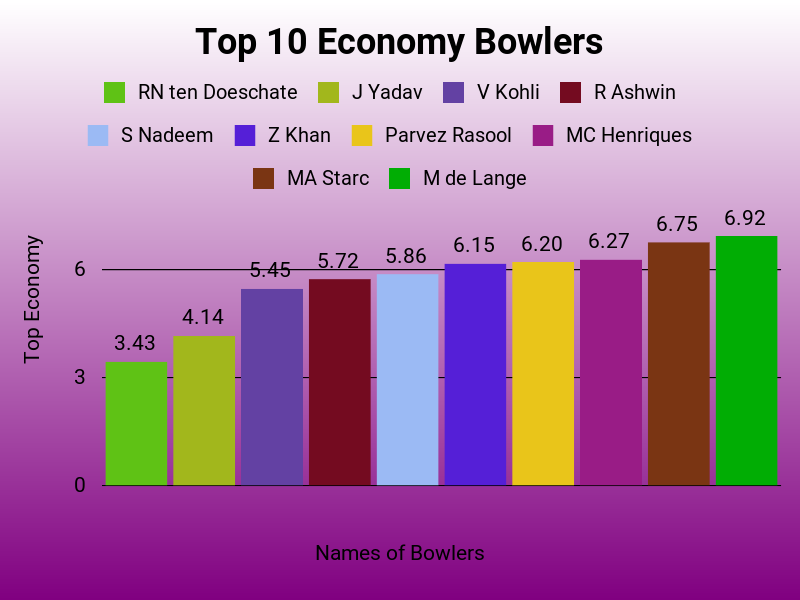
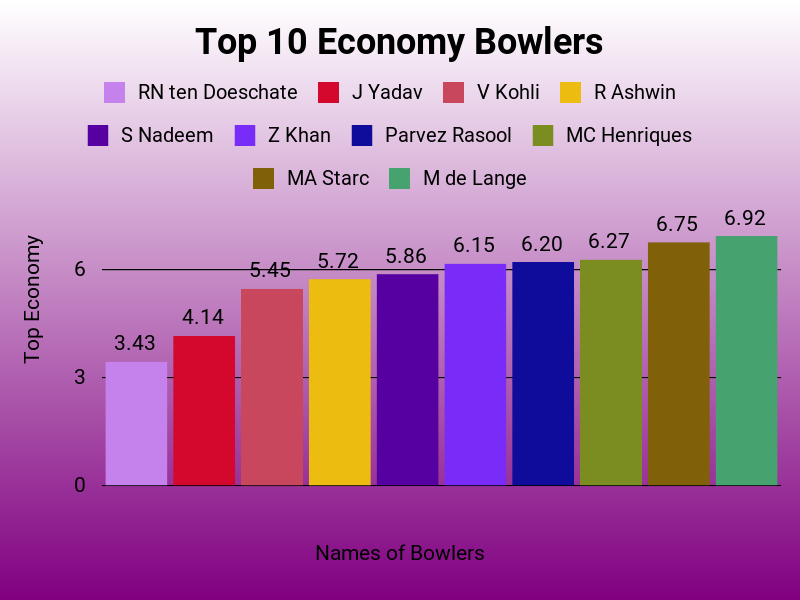
uploaded

diff --git a/src/server/problem4.rb b/src/server/problem4.rb
@@ -30,8 +30,8 @@ def economicalBowlers(matches, deliveries)
                 end
             end      
      end
-    #  puts bowlers
-   
+     puts bowlers
+
    topten = []
   for eachBowler in bowlers
         eco = eachBowler[1]['totalRuns'] / ( eachBowler[1]['totalBalls'] / 6.0 )
@@ -55,20 +55,20 @@ output = economicalBowlers(matches, deliveries)
 File.open('/home/naveen/Desktop/ruby-ipl-project/src/public/output/problem-4.json','wb'){ |file| file.puts JSON.pretty_generate(output) }
 
 
-plot = Gruff::Bar.new
-plot.x_axis_label = 'Names of Bowlers'
-plot.y_axis_label = 'Top Economy'
-plot.y_axis_increment = 3
-plot.show_labels_for_bar_values = true
-plot.theme = { marker_color: 'black', background_colors: %w[white purple] }
-plot.title = 'Top 10 Economy Bowlers'
+# plot = Gruff::Bar.new
+# plot.x_axis_label = 'Names of Bowlers'
+# plot.y_axis_label = 'Top Economy'
+# plot.y_axis_increment = 3
+# plot.show_labels_for_bar_values = true
+# plot.theme = { marker_color: 'black', background_colors: %w[white purple] }
+# plot.title = 'Top 10 Economy Bowlers'
 
-output.each do |season, matches_count|
+# output.each do |season, matches_count|
   
-  plot.data(season, matches_count, '#'.concat(Random.bytes(3).unpack1('H*').to_s))
-end
+#   plot.data(season, matches_count, '#'.concat(Random.bytes(3).unpack1('H*').to_s))
+# end
 
-plot.write('/home/naveen/Desktop/ruby-ipl-project/src/plots/4_top 10_economy.png')
+# plot.write('/home/naveen/Desktop/ruby-ipl-project/src/plots/4_top 10_economy.png')
 
 
 
